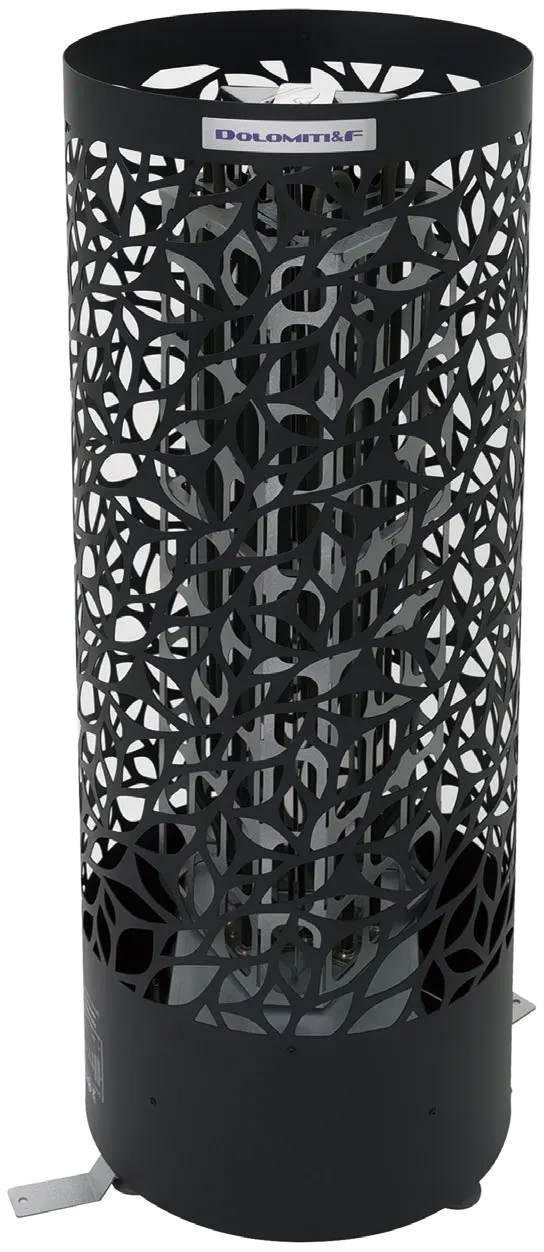
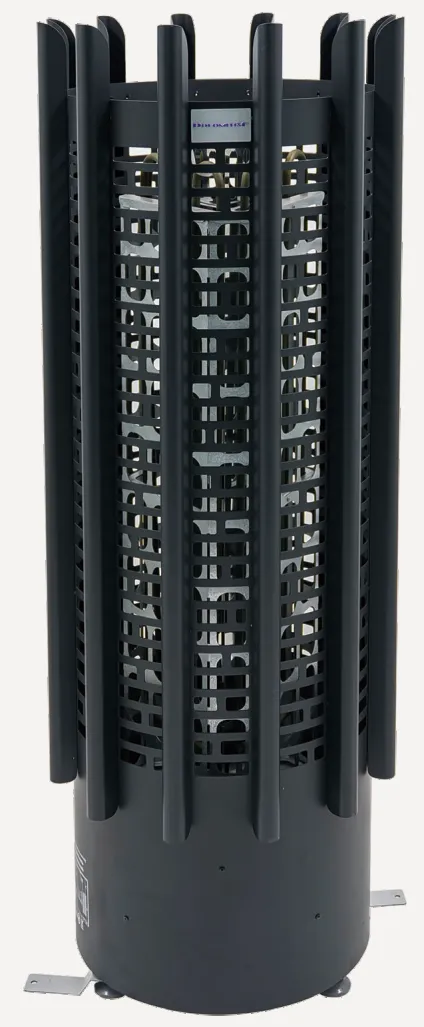
dolomiti: correct Crown photo, placeholder for pending Pillar-E shots
Claude-Session: https://claude.ai/code/session_01CPm25eZSox78Mv85TBmc4j

diff --git a/projects/dolomiti/index.html b/projects/dolomiti/index.html
@@ -17,7 +17,7 @@
 "address":{"@type":"PostalAddress","streetAddress":"ул. Ратушного, 40","addressLocality":"Алматы","addressCountry":"KZ"}}
 </script>
 <script type="application/ld+json">
-{"@context":"https://schema.org","@type":"Product","name":"Электропечь для сауны Dolomiti Pillar",
+{"@context":"https://schema.org","@type":"Product","name":"Электропечь для сауны Dolomiti",
 "brand":{"@type":"Brand","name":"Dolomiti&F"},
 "offers":{"@type":"AggregateOffer","priceCurrency":"KZT","lowPrice":"380000","offerCount":"11","availability":"https://schema.org/InStock"}}
 </script>
@@ -289,7 +289,7 @@
         <span><b>Kaspi</b> / рассрочка</span>
       </div>
     </div>
-    <div class="ph hero-img rv"><img src="img/hero-pillar.webp" alt="Электропечь Dolomiti Pillar в парной"></div>
+    <div class="ph hero-img rv"><img src="img/hero-crown.webp" alt="Электропечь Dolomiti Crown в парной"></div>
   </div>
 </section>
 
@@ -540,10 +540,10 @@ const SERIES=[
  {id:"cr90",img:"img/crown.webp",contain:1,series:"Crown",name:"CR90BE",power:"9 кВт",volt:"3~400В",vol:"8–13 м³",min:8,max:13,price:"430 000 ₸",
   desc:"Электрическая печь Crown отличается мягкими линиями, металлической эстетикой и внешним видом, напоминающим корону, что добавляет премиальный стиль интерьеру парной. Круглая конструкция позволяет ставить печь на пол или встраивать её в полок. Благодаря большой вместимости камней воду можно поддавать с разных сторон — печь даёт много тепла и пара и подходит как для семейной, так и для небольшой коммерческой сауны.",
   specs:[["Модель","CR90BE"],["Мощность","9 кВт"],["Напряжение","3~400В"],["Объём парной","8–13 м³"],["Вместимость камней","60 кг"],["Каменка","открытая"],["Управление","встроенное или внешний пульт"],["Цвет","чёрный"]]},
- {id:"ph60",img:"img/pillar.webp",contain:1,series:"Pillar-E",name:"PH60BE",power:"6 кВт",volt:"3~400В",vol:"5–8 м³",min:5,max:8,price:"380 000 ₸",
+ {id:"ph60",img:"",contain:1,series:"Pillar-E",name:"PH60BE",power:"6 кВт",volt:"3~400В",vol:"5–8 м³",min:5,max:8,price:"380 000 ₸",
   desc:"Печь Pillar-E работает с внешним управлением и требует пульта. Каменка ставится на пол в парной или встраивается в полок. Защитное ограждение из гнутой светлой древесины и нержавеющей стали предотвращает случайное прикосновение к горячей печи и подчёркивает стиль каменки.",
   specs:[["Модель","PH60BE"],["Мощность","6 кВт"],["Напряжение","3~400В"],["Объём парной","5–8 м³"],["Вместимость камней","60 кг"],["Габариты","320×320×950 мм"],["Управление","внешний пульт (обязателен)"],["Цвет","чёрный"]]},
- {id:"ph90",img:"img/pillar.webp",contain:1,series:"Pillar-E",name:"PH90BE",power:"9 кВт",volt:"3~400В",vol:"8–13 м³",min:8,max:13,price:"420 000 ₸",
+ {id:"ph90",img:"",contain:1,series:"Pillar-E",name:"PH90BE",power:"9 кВт",volt:"3~400В",vol:"8–13 м³",min:8,max:13,price:"420 000 ₸",
   desc:"Печь Pillar-E работает с внешним управлением и требует пульта. Каменка ставится на пол в парной или встраивается в полок. Защитное ограждение из гнутой светлой древесины и нержавеющей стали предотвращает случайное прикосновение к горячей печи и подчёркивает стиль каменки.",
   specs:[["Модель","PH90BE"],["Мощность","9 кВт"],["Напряжение","3~400В"],["Объём парной","8–13 м³"],["Вместимость камней","60 кг"],["Габариты","320×320×950 мм"],["Управление","внешний пульт (обязателен)"],["Цвет","чёрный"]]},
  {id:"sd90",img:"img/space.webp",contain:0,series:"Space Mini",name:"SD90E",power:"9 кВт",volt:"3~400В",vol:"8–13 м³",min:8,max:13,price:"420 000 ₸",
@@ -597,7 +597,7 @@ function renderCatalog(min,max){
       grid.appendChild(h);
     }
     const d=document.createElement('div');d.className='card';
-    d.innerHTML=`<div class="ph${s.contain?' contain':''}"><img src="${s.img}" alt="Печь Dolomiti ${s.name}" loading="lazy"></div>
+    d.innerHTML=`<div class="ph${s.contain?' contain':''}">${s.img?`<img src="${s.img}" alt="Печь Dolomiti ${s.name}" loading="lazy">`:`Фото ${s.name}<br>ожидается`}</div>
       <div><div class="card-series">${s.series}</div><h3>${s.name}</h3><div class="card-meta"><span>${s.power}</span><span>${s.volt}</span><span>${s.vol}</span></div></div>
       <span class="badge">${s.b2b?'Коммерческая серия':'В наличии в Алматы'}</span>
       <div class="price">${s.price}</div>
@@ -641,7 +641,7 @@ function openPopup(s){
   document.getElementById('pKicker').textContent=`${s.series} · ${s.power} · ${s.volt}`;
   document.getElementById('pTitle').textContent=s.name;
   document.getElementById('pDesc').textContent=s.desc;
-  document.getElementById('pImg').innerHTML=`<img src="${s.img}" alt="Печь Dolomiti ${s.name}">`;document.getElementById('pImg').classList.toggle('contain',!!s.contain);
+  document.getElementById('pImg').innerHTML=s.img?`<img src="${s.img}" alt="Печь Dolomiti ${s.name}">`:`Фото ${s.name} ожидается`;document.getElementById('pImg').classList.toggle('contain',!!s.contain);
   document.getElementById('pSpecs').innerHTML=s.specs.map(x=>`<div class="row"><span>${x[0]}</span><span>${x[1]}</span></div>`).join('');
   document.getElementById('pModels').innerHTML=`<div class="row"><span>${s.name} · ${s.power}</span><span>${s.price}</span></div>`;
   const kw=parseFloat(String(s.power).replace(',','.'));
